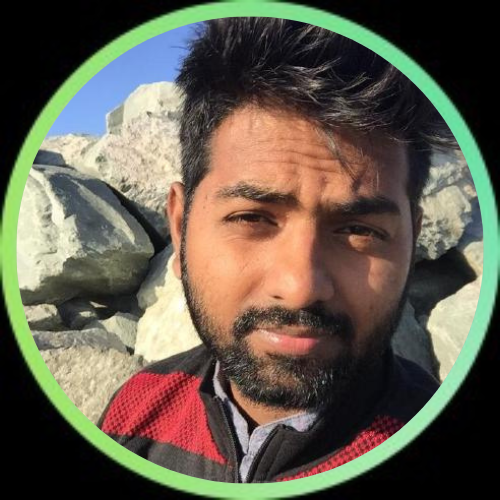
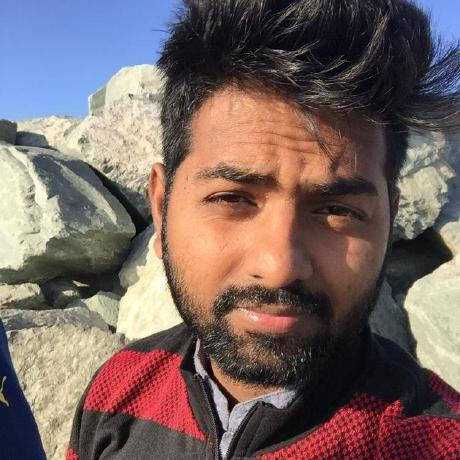
.

diff --git a/index.html b/index.html
@@ -305,7 +305,7 @@
               <!-- person - start -->
               <div class="flex flex-col shadow rounded-xl p-5 items-center">
                 <div class="mb-2 h-24 w-24 overflow-hidden rounded-full bg-gray-100 shadow-lg md:mb-4 md:h-32 md:w-32">
-                  <img src="images/netsepio.png" alt="Profile" class="h-full w-full">
+                  <img src="images/shachindra_kumar.png" alt="Profile" class="h-full w-full object-cover object-center">
                 </div>
         
                 <div>
@@ -342,7 +342,7 @@
               <!-- person - start -->
               <div class="flex flex-col shadow rounded-xl p-5 items-center">
                 <div class="mb-2 h-24 w-24 overflow-hidden rounded-full bg-gray-100 shadow-lg md:mb-4 md:h-32 md:w-32">
-                  <img src="images/aditya.png" alt="Profile" class="h-full w-full" />
+                  <img src="images/aditya.png" alt="Profile" class="h-full w-full object-cover object-center" />
                 </div>
         
                 <div>
